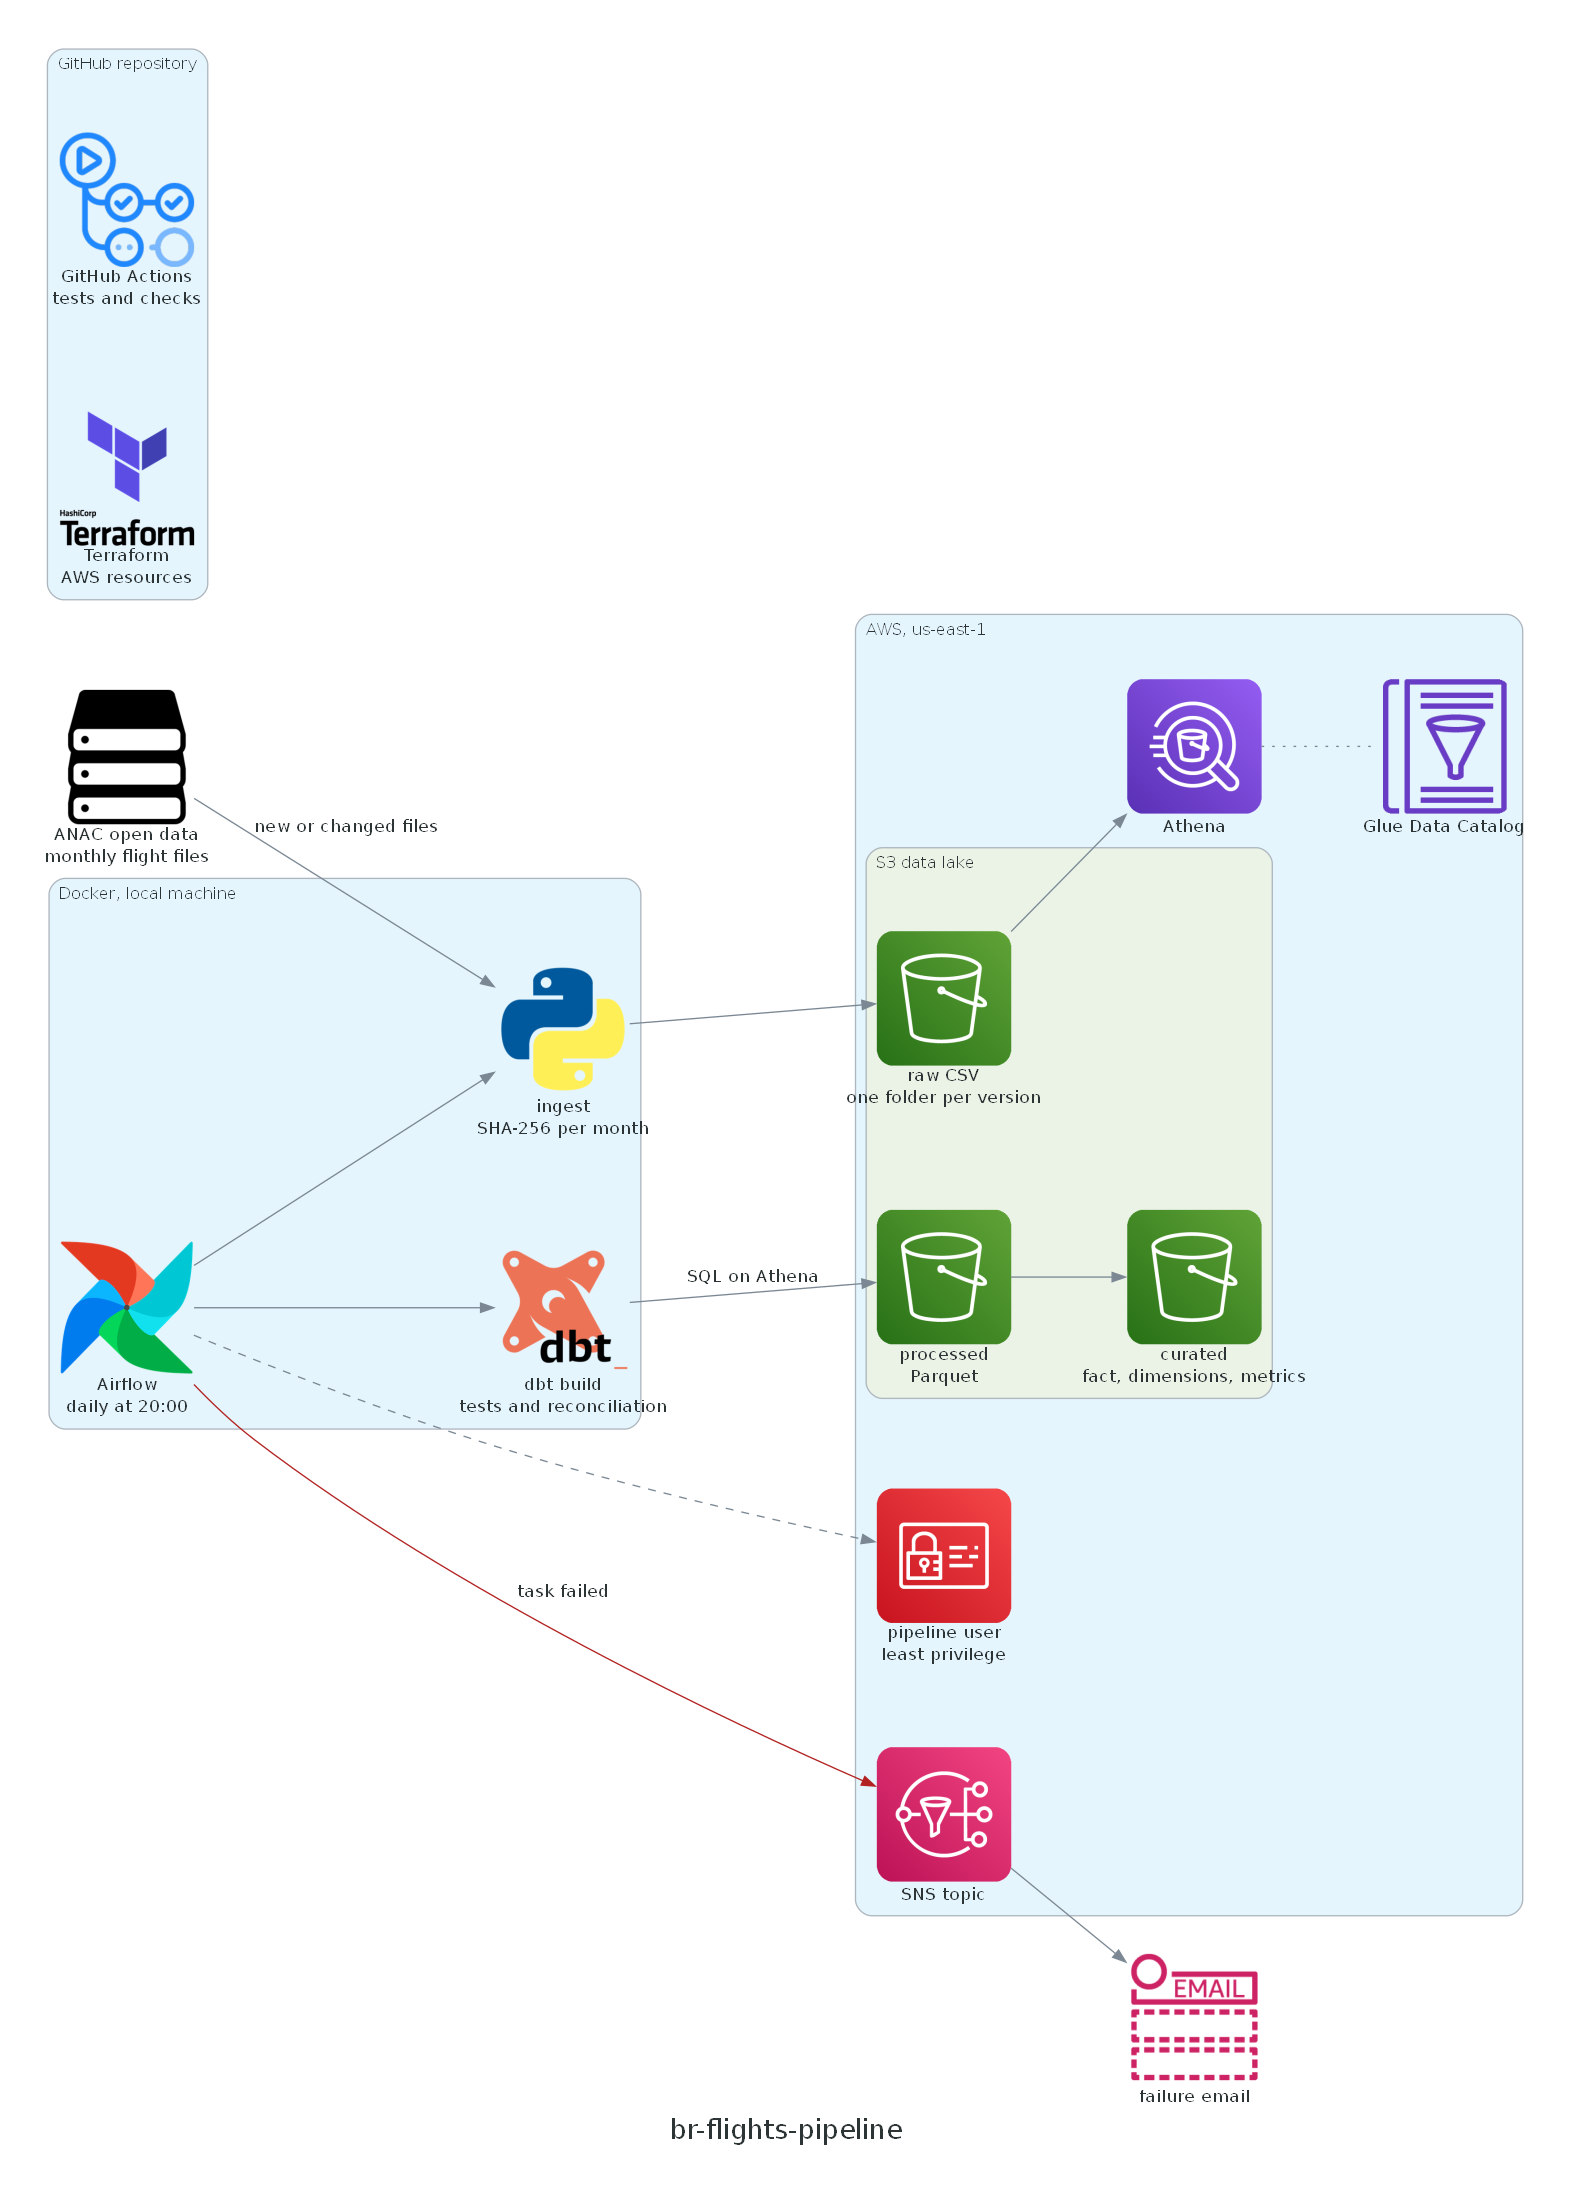
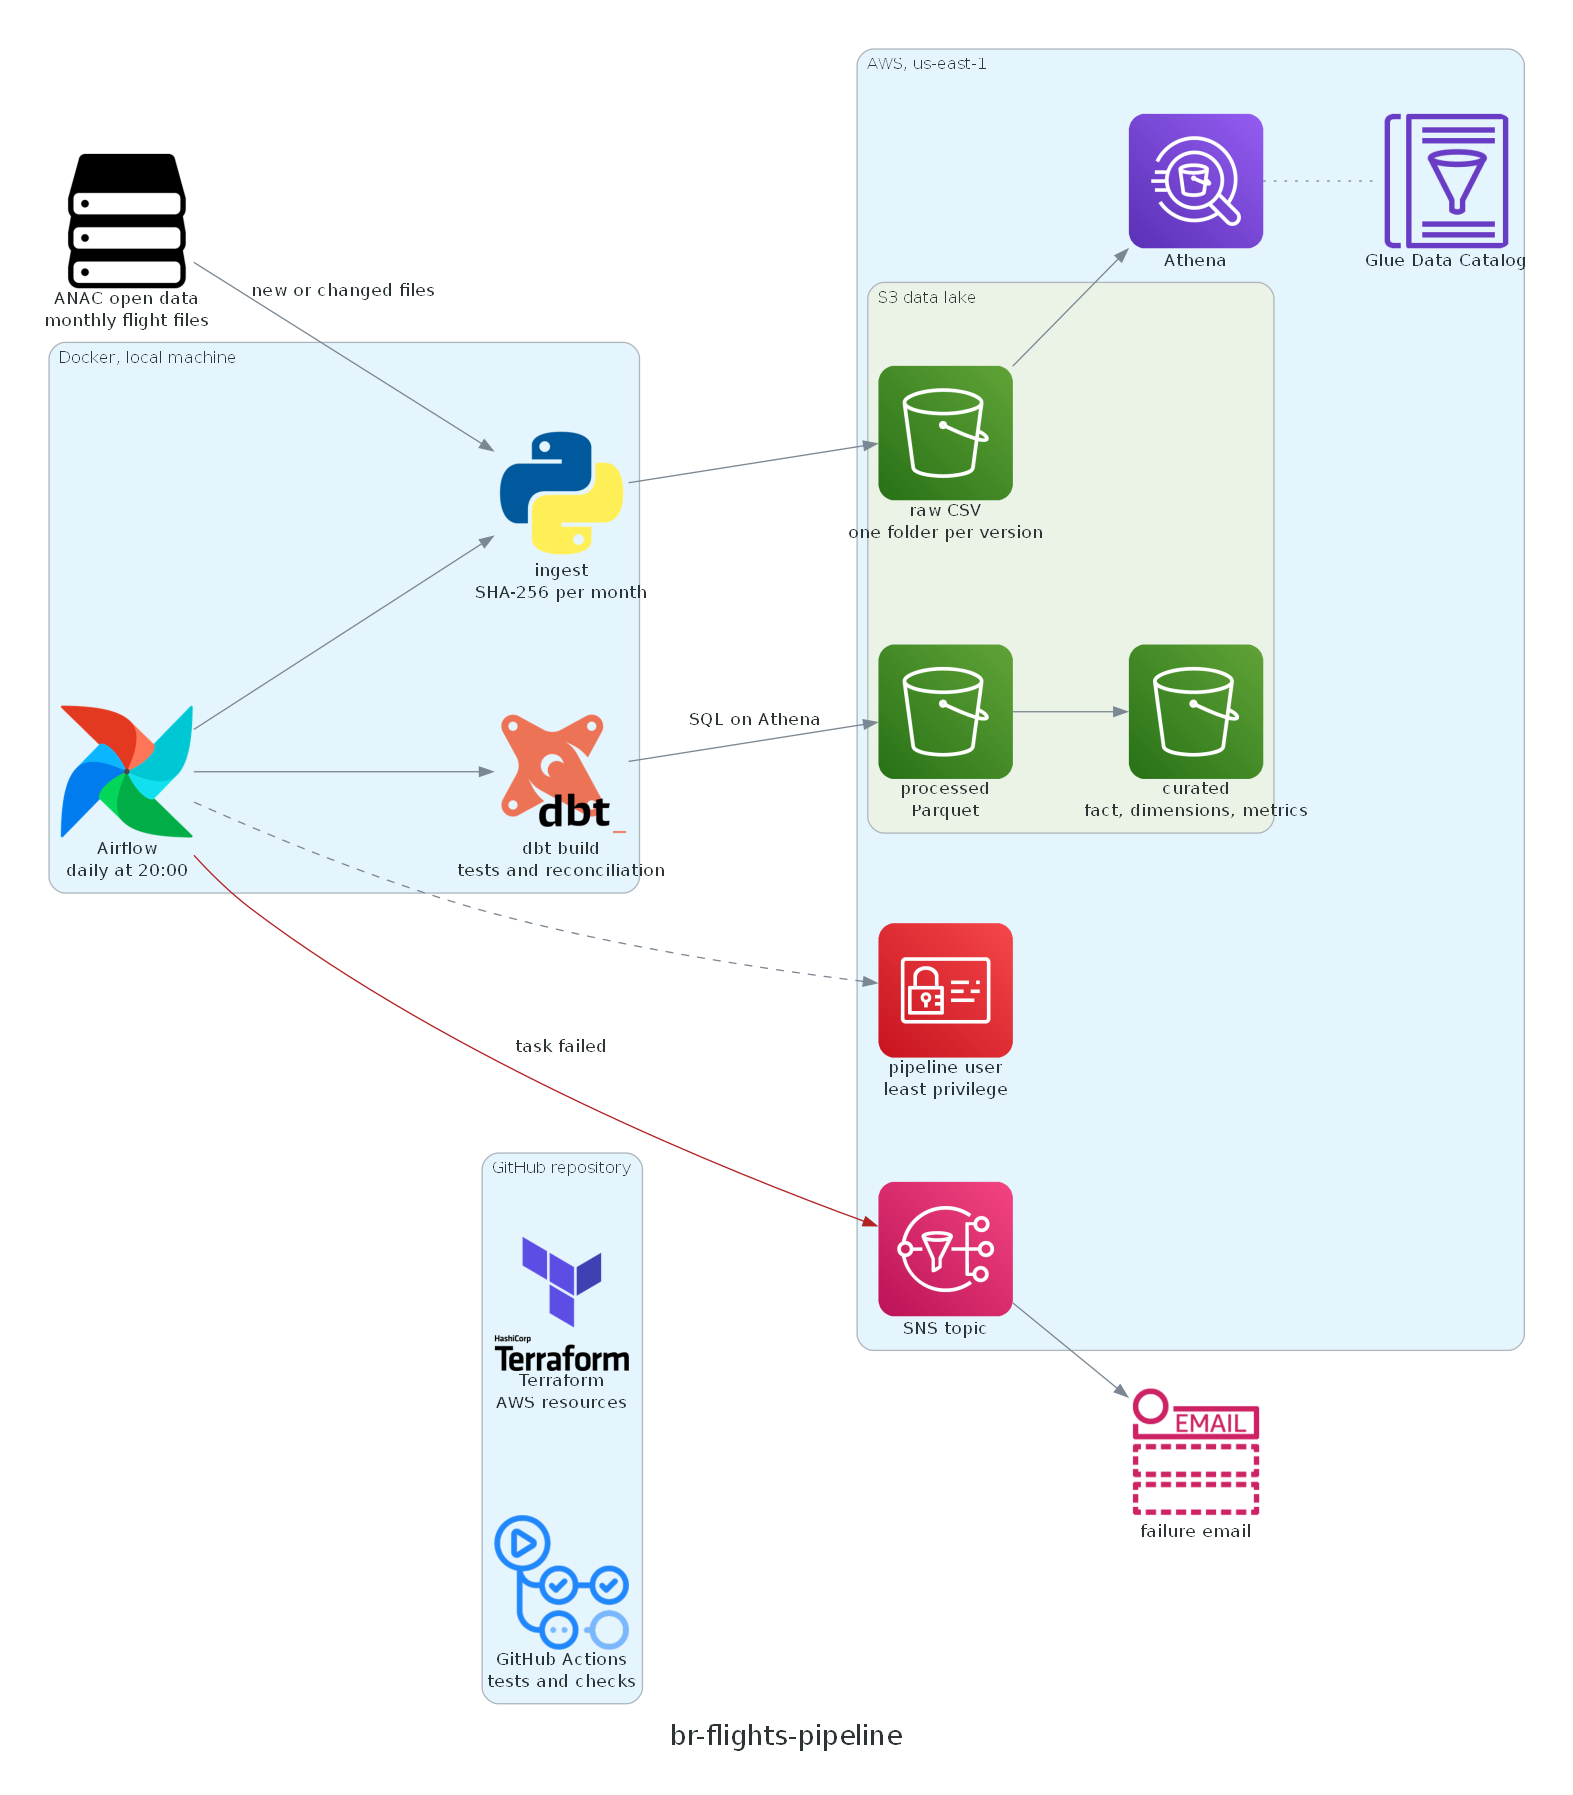
Keep the repository box next to the local machine

diff --git a/docs/architecture.py b/docs/architecture.py
@@ -39,8 +39,12 @@ with Diagram("br-flights-pipeline", filename="docs/architecture", show=False, di
     email = SimpleNotificationServiceSnsEmailNotification("failure email")
 
     with Cluster("GitHub repository"):
-        Terraform("Terraform\nAWS resources")
-        GithubActions("GitHub Actions\ntests and checks")
+        terraform = Terraform("Terraform\nAWS resources")
+        checks = GithubActions("GitHub Actions\ntests and checks")
+
+    # No data flows through the repository; the invisible edge only keeps it
+    # next to the local machine instead of alone in a corner
+    airflow >> Edge(style="invis") >> [terraform, checks]
 
     anac >> Edge(label="new or changed files") >> ingest >> raw
     airflow >> [ingest, dbt]
